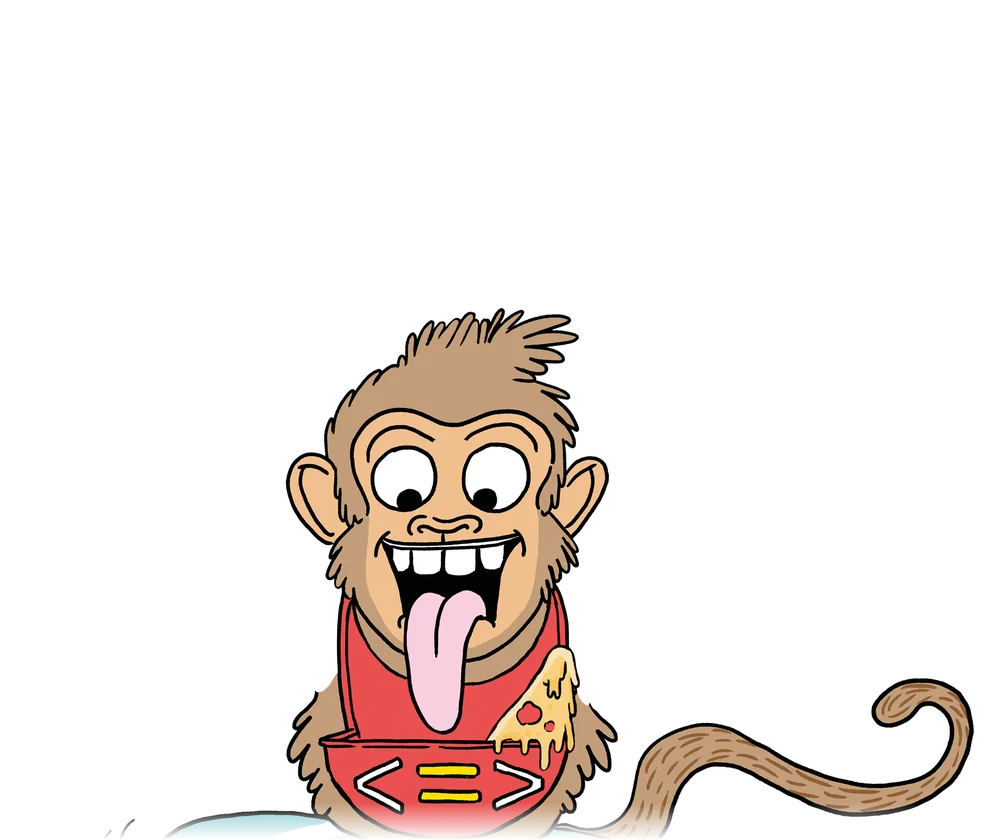
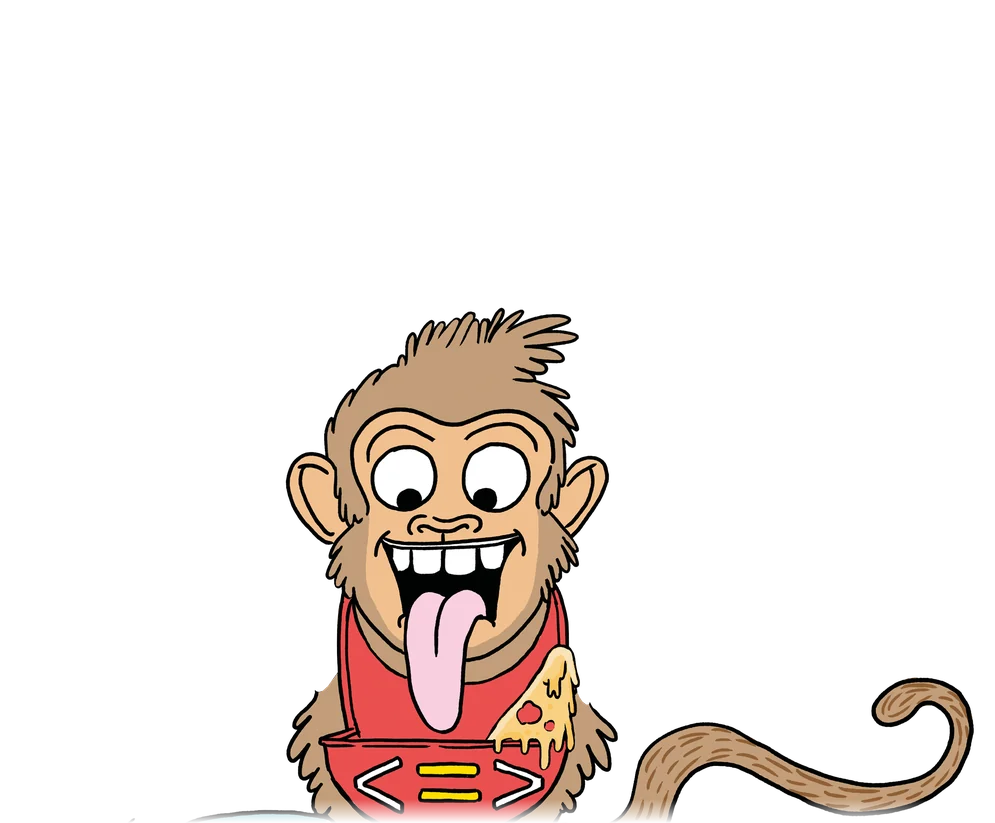
Apinavaaka: noppa suoraan edestä ja kirkkain tahko keskellä, ruokalappukorostus pois, uusi Vie linjastolle -nappi, väljempi asettelu
Claude-Session: https://claude.ai/code/session_01Jrb5sMZjYt7DdvpXLCZY5S

Changed region(s): [[0.1558, 0.3645, 0.997, 1.0]]

diff --git a/docs/apinavaaka/apinavaaka.css b/docs/apinavaaka/apinavaaka.css
@@ -1,12 +1,12 @@
 /* Apinavaaka-pikkupeli. Mahtuu yhdelle puhelimen ruudulle (~560 px korkea, 360 px leveä).
  * Värit tulevat sivuston tyyli.css:n muuttujista, oletukset tässä. */
 .av{position:relative;max-width:440px;margin:0 auto;background:var(--surface,#fff);border:1px solid var(--line,#E7DCCA);
-  border-radius:var(--radius,18px);padding:8px 10px 10px;box-shadow:var(--shadow,none);
+  border-radius:var(--radius,18px);padding:12px 14px 16px;box-shadow:var(--shadow,none);
   -webkit-user-select:none;user-select:none;-webkit-tap-highlight-color:transparent;font-family:Poppins,"Helvetica Neue",Arial,sans-serif}
 .av button{font:inherit;color:inherit}
 
 /* yläpalkki */
-.av__ylapalkki{display:grid;grid-template-columns:52px 1fr 80px;align-items:center;height:76px}
+.av__ylapalkki{display:grid;grid-template-columns:56px 1fr 84px;align-items:center;height:80px;margin-bottom:14px}
 .av__info{position:relative;width:48px;height:48px;border-radius:50%;border:0;padding:0;cursor:pointer;
   background:var(--warm,#FFF3E9);box-shadow:inset 0 0 0 2px var(--line,#E7DCCA)}
 .av__info img{position:absolute;inset:0;width:100%;height:100%;border-radius:50%;object-fit:cover}
@@ -58,32 +58,33 @@
 .av__luku{position:absolute;transform:translate(-50%,0);z-index:4;background:var(--surface,#fff);border-radius:999px;
   padding:1px 10px;font-weight:800;font-size:clamp(16px,5vw,20px);font-variant-numeric:tabular-nums;white-space:nowrap;
   box-shadow:0 1px 4px rgba(60,30,0,.25);transition:left .5s cubic-bezier(.3,1.5,.5,1),top .5s cubic-bezier(.3,1.5,.5,1)}
-.av__merkki{position:absolute;width:8%;aspect-ratio:1;transform:translate(-50%,-50%);border-radius:50%;z-index:2;
-  box-shadow:0 0 0 3px #fff,0 0 12px 6px rgba(255,255,255,.9);animation:av-merkki 1.2s ease-in-out infinite;pointer-events:none}
-.av__merkki--ok{box-shadow:0 0 0 3px #FFDF00,0 0 14px 8px rgba(255,223,0,.9)}
-@keyframes av-merkki{50%{transform:translate(-50%,-50%) scale(1.15)}}
-
 .av__juhla{position:absolute;left:50%;top:38%;transform:translate(-50%,-50%) scale(.3);opacity:0;z-index:6;
   background:var(--orange,#F47920);color:#1A1A1A;font-weight:800;font-size:clamp(22px,7vw,30px);padding:8px 18px;border-radius:16px;
   box-shadow:0 6px 20px rgba(60,30,0,.3);transition:transform .45s cubic-bezier(.3,1.8,.5,1),opacity .2s;pointer-events:none;white-space:nowrap}
 .av__juhla.on{opacity:1;transform:translate(-50%,-50%) scale(1) rotate(-4deg)}
 
 /* viestirivi */
-.av__rivi{height:48px;display:flex;align-items:center;justify-content:center;text-align:center;font-weight:700;font-size:16px;line-height:1.2;padding:0 6px}
-.av__rivi .nappi{border:0;cursor:pointer;font-weight:800;min-height:44px;animation:av-esiin .35s cubic-bezier(.3,1.6,.5,1)}
+.av__rivi{height:60px;margin:10px 0 14px;display:flex;align-items:center;justify-content:center;text-align:center;font-weight:700;font-size:16px;line-height:1.2;padding:0 6px}
+.av .av__vie{display:inline-flex;align-items:center;gap:10px;border:0;cursor:pointer;font-weight:700;font-size:18px;
+  padding:12px 26px;border-radius:999px;background:var(--green,#2D5D3D);color:#fff;box-shadow:0 4px 0 rgba(0,0,0,.18),0 8px 18px rgba(45,93,61,.3);
+  animation:av-esiin .35s cubic-bezier(.3,1.6,.5,1),av-kehota 1.6s ease-in-out .6s infinite}
+.av__vie span{font-size:20px;line-height:1}
+.av__vie:active{transform:translateY(2px);box-shadow:0 2px 0 rgba(0,0,0,.18)}
+.av__vie--varasto{background:var(--deep,#C2580C)}
+@keyframes av-kehota{50%{transform:translateY(3px)}}
 @keyframes av-esiin{from{transform:scale(.6);opacity:0}}
 .av__rivi--ok{color:var(--green,#2D5D3D);font-size:20px}
 .av__rivi--havikki{color:var(--deep,#C2580C)}
 
 /* varasto ja linjasto */
-.av__hyllyt{display:grid;gap:6px}
-.av__hylly{background:var(--warm,#FFF3E9);border-radius:12px;padding:4px 6px 3px}
+.av__hyllyt{display:grid;gap:10px}
+.av__hylly{background:var(--warm,#FFF3E9);border-radius:14px;padding:8px 8px 6px}
 .av__hylly--linjasto{background:var(--greenTint,#DCEBE0)}
 .av--havikki .av__hylly--linjasto{box-shadow:inset 0 0 0 2px var(--orange,#F47920)}
 .av__hylly-nimi{display:block;font-size:11px;font-weight:700;letter-spacing:.04em;text-transform:uppercase;color:var(--soft,#6E6357);margin:0 0 0 4px;line-height:1.4}
 .av__hylly-nimi b{color:var(--ink,#1A1A1A);margin-left:3px}
 .av__paikat{display:grid;grid-template-columns:repeat(10,1fr);gap:2px;align-items:end;--pala:4px}
-.av__paikka{display:flex;flex-direction:column;align-items:center;justify-content:flex-end;min-height:62px}
+.av__paikka{display:flex;flex-direction:column;align-items:center;justify-content:flex-end;min-height:66px}
 .av__paikka small{font-size:10.5px;font-weight:700;color:var(--soft,#6E6357);line-height:1.2}
 .av__paikka--tyhja::before{content:"";display:block;width:16px;height:4px;border-radius:3px;border:1px dashed var(--line2,#D6C7AF);margin-bottom:2px}
 .av__hylly-torni{display:flex;width:100%;justify-content:center;padding:3px 0 2px;border:0;background:none;cursor:pointer;border-radius:8px}

diff --git a/julkinen/apinavaaka/apinavaaka.css b/julkinen/apinavaaka/apinavaaka.css
@@ -1,12 +1,12 @@
 /* Apinavaaka-pikkupeli. Mahtuu yhdelle puhelimen ruudulle (~560 px korkea, 360 px leveä).
  * Värit tulevat sivuston tyyli.css:n muuttujista, oletukset tässä. */
 .av{position:relative;max-width:440px;margin:0 auto;background:var(--surface,#fff);border:1px solid var(--line,#E7DCCA);
-  border-radius:var(--radius,18px);padding:8px 10px 10px;box-shadow:var(--shadow,none);
+  border-radius:var(--radius,18px);padding:12px 14px 16px;box-shadow:var(--shadow,none);
   -webkit-user-select:none;user-select:none;-webkit-tap-highlight-color:transparent;font-family:Poppins,"Helvetica Neue",Arial,sans-serif}
 .av button{font:inherit;color:inherit}
 
 /* yläpalkki */
-.av__ylapalkki{display:grid;grid-template-columns:52px 1fr 80px;align-items:center;height:76px}
+.av__ylapalkki{display:grid;grid-template-columns:56px 1fr 84px;align-items:center;height:80px;margin-bottom:14px}
 .av__info{position:relative;width:48px;height:48px;border-radius:50%;border:0;padding:0;cursor:pointer;
   background:var(--warm,#FFF3E9);box-shadow:inset 0 0 0 2px var(--line,#E7DCCA)}
 .av__info img{position:absolute;inset:0;width:100%;height:100%;border-radius:50%;object-fit:cover}
@@ -58,32 +58,33 @@
 .av__luku{position:absolute;transform:translate(-50%,0);z-index:4;background:var(--surface,#fff);border-radius:999px;
   padding:1px 10px;font-weight:800;font-size:clamp(16px,5vw,20px);font-variant-numeric:tabular-nums;white-space:nowrap;
   box-shadow:0 1px 4px rgba(60,30,0,.25);transition:left .5s cubic-bezier(.3,1.5,.5,1),top .5s cubic-bezier(.3,1.5,.5,1)}
-.av__merkki{position:absolute;width:8%;aspect-ratio:1;transform:translate(-50%,-50%);border-radius:50%;z-index:2;
-  box-shadow:0 0 0 3px #fff,0 0 12px 6px rgba(255,255,255,.9);animation:av-merkki 1.2s ease-in-out infinite;pointer-events:none}
-.av__merkki--ok{box-shadow:0 0 0 3px #FFDF00,0 0 14px 8px rgba(255,223,0,.9)}
-@keyframes av-merkki{50%{transform:translate(-50%,-50%) scale(1.15)}}
-
 .av__juhla{position:absolute;left:50%;top:38%;transform:translate(-50%,-50%) scale(.3);opacity:0;z-index:6;
   background:var(--orange,#F47920);color:#1A1A1A;font-weight:800;font-size:clamp(22px,7vw,30px);padding:8px 18px;border-radius:16px;
   box-shadow:0 6px 20px rgba(60,30,0,.3);transition:transform .45s cubic-bezier(.3,1.8,.5,1),opacity .2s;pointer-events:none;white-space:nowrap}
 .av__juhla.on{opacity:1;transform:translate(-50%,-50%) scale(1) rotate(-4deg)}
 
 /* viestirivi */
-.av__rivi{height:48px;display:flex;align-items:center;justify-content:center;text-align:center;font-weight:700;font-size:16px;line-height:1.2;padding:0 6px}
-.av__rivi .nappi{border:0;cursor:pointer;font-weight:800;min-height:44px;animation:av-esiin .35s cubic-bezier(.3,1.6,.5,1)}
+.av__rivi{height:60px;margin:10px 0 14px;display:flex;align-items:center;justify-content:center;text-align:center;font-weight:700;font-size:16px;line-height:1.2;padding:0 6px}
+.av .av__vie{display:inline-flex;align-items:center;gap:10px;border:0;cursor:pointer;font-weight:700;font-size:18px;
+  padding:12px 26px;border-radius:999px;background:var(--green,#2D5D3D);color:#fff;box-shadow:0 4px 0 rgba(0,0,0,.18),0 8px 18px rgba(45,93,61,.3);
+  animation:av-esiin .35s cubic-bezier(.3,1.6,.5,1),av-kehota 1.6s ease-in-out .6s infinite}
+.av__vie span{font-size:20px;line-height:1}
+.av__vie:active{transform:translateY(2px);box-shadow:0 2px 0 rgba(0,0,0,.18)}
+.av__vie--varasto{background:var(--deep,#C2580C)}
+@keyframes av-kehota{50%{transform:translateY(3px)}}
 @keyframes av-esiin{from{transform:scale(.6);opacity:0}}
 .av__rivi--ok{color:var(--green,#2D5D3D);font-size:20px}
 .av__rivi--havikki{color:var(--deep,#C2580C)}
 
 /* varasto ja linjasto */
-.av__hyllyt{display:grid;gap:6px}
-.av__hylly{background:var(--warm,#FFF3E9);border-radius:12px;padding:4px 6px 3px}
+.av__hyllyt{display:grid;gap:10px}
+.av__hylly{background:var(--warm,#FFF3E9);border-radius:14px;padding:8px 8px 6px}
 .av__hylly--linjasto{background:var(--greenTint,#DCEBE0)}
 .av--havikki .av__hylly--linjasto{box-shadow:inset 0 0 0 2px var(--orange,#F47920)}
 .av__hylly-nimi{display:block;font-size:11px;font-weight:700;letter-spacing:.04em;text-transform:uppercase;color:var(--soft,#6E6357);margin:0 0 0 4px;line-height:1.4}
 .av__hylly-nimi b{color:var(--ink,#1A1A1A);margin-left:3px}
 .av__paikat{display:grid;grid-template-columns:repeat(10,1fr);gap:2px;align-items:end;--pala:4px}
-.av__paikka{display:flex;flex-direction:column;align-items:center;justify-content:flex-end;min-height:62px}
+.av__paikka{display:flex;flex-direction:column;align-items:center;justify-content:flex-end;min-height:66px}
 .av__paikka small{font-size:10.5px;font-weight:700;color:var(--soft,#6E6357);line-height:1.2}
 .av__paikka--tyhja::before{content:"";display:block;width:16px;height:4px;border-radius:3px;border:1px dashed var(--line2,#D6C7AF);margin-bottom:2px}
 .av__hylly-torni{display:flex;width:100%;justify-content:center;padding:3px 0 2px;border:0;background:none;cursor:pointer;border-radius:8px}

diff --git a/docs/apinavaaka/apinavaaka.js b/docs/apinavaaka/apinavaaka.js
@@ -18,9 +18,9 @@
 
   // ---------------------------------------------------------------- kuvan geometria
   // PSD:n pikseleitä; ylhäältä leikattu 250 px, alhaalta rajattu ruokalapun alle.
-  var W = 3210, H = 2470;
+  var W = 3210, H = 2422;
   var OSAT = {
-    vartalo: [255, 0, 2926, 2470],
+    vartalo: [255, 0, 2926, 2422],
     vasen:   [0, 1585, 1256, 564],
     oikea:   [1911, 1601, 1299, 513],
     saihkeet:[1162, 22, 1131, 681],
@@ -28,7 +28,6 @@
   };
   var NIVEL_V = [1240, 1790], NIVEL_O = [1925, 1775];   // olkapäät
   var SYMB_V = [508, 1655],  SYMB_O = [2700, 1668];     // symbaalien keskikohta
-  var RUOKALAPPU = { '<': [1362, 2318], '=': [1632, 2318], '>': [1902, 2318] };  // < = > ruokalapussa
   var MAKSIMIKULMA = 9;
 
   var VARIT = ['#090A0D', '#E62448', '#FFDF00', '#1072B9', '#EF7925',
@@ -181,8 +180,6 @@
     nayttamo.appendChild(kasiV); nayttamo.appendChild(kasiO);
     nayttamo.appendChild(kuva('vartalo'));
     nayttamo.appendChild(kuva('saihkeet')); nayttamo.appendChild(kuva('lamppu', 'lamppu-pois')); nayttamo.appendChild(lamppuPaalla);
-    var merkki = el('span', 'av__merkki');          // korostus ruokalapun < = > -merkin päällä
-    nayttamo.appendChild(merkki);
     var pinoV = el('div', 'av__pino'), pinoO = el('div', 'av__pino');
     var lukuV = el('span', 'av__luku'), lukuO = el('span', 'av__luku');
     [pinoV, pinoO, lukuV, lukuO].forEach(function (x) { nayttamo.appendChild(x); });
@@ -371,19 +368,13 @@
       lukuV.textContent = nayta ? [noppa].concat(tila.vasen).join(' + ') : '';
       lukuO.textContent = nayta && tila.oikea.length ? tila.oikea.join(' + ') : '';
       lukuV.hidden = !lukuV.textContent; lukuO.hidden = !lukuO.textContent;
-      var m = !nayta || !tila.oikea.length ? '' : vasenSumma === oikeaSumma ? '=' : vasenSumma < oikeaSumma ? '<' : '>';
-      merkki.hidden = !m;
-      if (m) {
-        merkki.style.left = pros(RUOKALAPPU[m][0], W); merkki.style.top = pros(RUOKALAPPU[m][1], H);
-        merkki.classList.toggle('av__merkki--ok', m === '=');
-      }
       juuri.classList.toggle('av--valo', tila.valmis || tila.siirretty);
 
       // viestirivi: joko lyhyt teksti tai yksi nappi
       rivi.innerHTML = '';
       rivi.className = 'av__rivi';
       if (tila.valmis) {
-        nappi(rivi, (tila.havikki ? t.vieV : t.vie) + ' →', '', vieSiirto);
+        nappi(rivi, (tila.havikki ? t.vieV : t.vie) + ' <span aria-hidden="true">↓</span>', 'av__vie' + (tila.havikki ? ' av__vie--varasto' : ''), vieSiirto);
       } else if (tila.siirretty) {
         rivi.textContent = t.hyva; rivi.classList.add('av__rivi--ok');
       } else if (!heitetty) {

diff --git a/julkinen/apinavaaka/apinavaaka.js b/julkinen/apinavaaka/apinavaaka.js
@@ -18,9 +18,9 @@
 
   // ---------------------------------------------------------------- kuvan geometria
   // PSD:n pikseleitä; ylhäältä leikattu 250 px, alhaalta rajattu ruokalapun alle.
-  var W = 3210, H = 2470;
+  var W = 3210, H = 2422;
   var OSAT = {
-    vartalo: [255, 0, 2926, 2470],
+    vartalo: [255, 0, 2926, 2422],
     vasen:   [0, 1585, 1256, 564],
     oikea:   [1911, 1601, 1299, 513],
     saihkeet:[1162, 22, 1131, 681],
@@ -28,7 +28,6 @@
   };
   var NIVEL_V = [1240, 1790], NIVEL_O = [1925, 1775];   // olkapäät
   var SYMB_V = [508, 1655],  SYMB_O = [2700, 1668];     // symbaalien keskikohta
-  var RUOKALAPPU = { '<': [1362, 2318], '=': [1632, 2318], '>': [1902, 2318] };  // < = > ruokalapussa
   var MAKSIMIKULMA = 9;
 
   var VARIT = ['#090A0D', '#E62448', '#FFDF00', '#1072B9', '#EF7925',
@@ -181,8 +180,6 @@
     nayttamo.appendChild(kasiV); nayttamo.appendChild(kasiO);
     nayttamo.appendChild(kuva('vartalo'));
     nayttamo.appendChild(kuva('saihkeet')); nayttamo.appendChild(kuva('lamppu', 'lamppu-pois')); nayttamo.appendChild(lamppuPaalla);
-    var merkki = el('span', 'av__merkki');          // korostus ruokalapun < = > -merkin päällä
-    nayttamo.appendChild(merkki);
     var pinoV = el('div', 'av__pino'), pinoO = el('div', 'av__pino');
     var lukuV = el('span', 'av__luku'), lukuO = el('span', 'av__luku');
     [pinoV, pinoO, lukuV, lukuO].forEach(function (x) { nayttamo.appendChild(x); });
@@ -371,19 +368,13 @@
       lukuV.textContent = nayta ? [noppa].concat(tila.vasen).join(' + ') : '';
       lukuO.textContent = nayta && tila.oikea.length ? tila.oikea.join(' + ') : '';
       lukuV.hidden = !lukuV.textContent; lukuO.hidden = !lukuO.textContent;
-      var m = !nayta || !tila.oikea.length ? '' : vasenSumma === oikeaSumma ? '=' : vasenSumma < oikeaSumma ? '<' : '>';
-      merkki.hidden = !m;
-      if (m) {
-        merkki.style.left = pros(RUOKALAPPU[m][0], W); merkki.style.top = pros(RUOKALAPPU[m][1], H);
-        merkki.classList.toggle('av__merkki--ok', m === '=');
-      }
       juuri.classList.toggle('av--valo', tila.valmis || tila.siirretty);
 
       // viestirivi: joko lyhyt teksti tai yksi nappi
       rivi.innerHTML = '';
       rivi.className = 'av__rivi';
       if (tila.valmis) {
-        nappi(rivi, (tila.havikki ? t.vieV : t.vie) + ' →', '', vieSiirto);
+        nappi(rivi, (tila.havikki ? t.vieV : t.vie) + ' <span aria-hidden="true">↓</span>', 'av__vie' + (tila.havikki ? ' av__vie--varasto' : ''), vieSiirto);
       } else if (tila.siirretty) {
         rivi.textContent = t.hyva; rivi.classList.add('av__rivi--ok');
       } else if (!heitetty) {

diff --git a/docs/apinavaaka/noppa3d.js b/docs/apinavaaka/noppa3d.js
@@ -70,7 +70,7 @@ window.Noppa3D = function (juuri, kansio) {
   varjo.className = 'n3d__varjo';
   juuri.insertBefore(varjo, kappale);
 
-  var VALO = norm([-0.4, -0.7, 0.9]);
+  var VALO = norm([0, -0.375, 0.927]);   // valo edestä: lopputulostahko on kirkkain
 
   tahkot.forEach(function (f) {
     var keski = mul(add(add(f.karki, f.pohja), add(f.a, f.b)), 0.25);
@@ -112,7 +112,7 @@ window.Noppa3D = function (juuri, kansio) {
     var Rm = [[0, 0, 0], [0, 0, 0], [0, 0, 0]];
     for (var i = 0; i < 3; i++) for (var r = 0; r < 3; r++) for (var c = 0; c < 3; c++) Rm[r][c] += T[i][r] * Sr[i][c];
     // pieni kallistus, jotta naapuritahkot näkyvät ja noppa näyttää kappaleelta
-    return mm(mm(kierto([1, 0, 0], -4 * rad), kierto([0, 1, 0], 10 * rad)), Rm);
+    return mm(mm(kierto([1, 0, 0], 22 * rad), kierto([0, 1, 0], 0 * rad)), Rm);
   }
 
   var M = asento(1), anim = null;
@@ -124,7 +124,7 @@ window.Noppa3D = function (juuri, kansio) {
     tahkot.forEach(function (f) {
       var nn = mv(Mx, f.n);
       var v = Math.max(0, dot(nn, VALO));
-      f.img.style.filter = 'brightness(' + (0.55 + 0.55 * v).toFixed(3) + ')';
+      f.img.style.filter = 'brightness(' + (0.52 + 0.5 * Math.pow(v, 1.5)).toFixed(3) + ')';
     });
   }
   function seis() { if (anim) cancelAnimationFrame(anim); anim = null; }

diff --git a/julkinen/apinavaaka/noppa3d.js b/julkinen/apinavaaka/noppa3d.js
@@ -70,7 +70,7 @@ window.Noppa3D = function (juuri, kansio) {
   varjo.className = 'n3d__varjo';
   juuri.insertBefore(varjo, kappale);
 
-  var VALO = norm([-0.4, -0.7, 0.9]);
+  var VALO = norm([0, -0.375, 0.927]);   // valo edestä: lopputulostahko on kirkkain
 
   tahkot.forEach(function (f) {
     var keski = mul(add(add(f.karki, f.pohja), add(f.a, f.b)), 0.25);
@@ -112,7 +112,7 @@ window.Noppa3D = function (juuri, kansio) {
     var Rm = [[0, 0, 0], [0, 0, 0], [0, 0, 0]];
     for (var i = 0; i < 3; i++) for (var r = 0; r < 3; r++) for (var c = 0; c < 3; c++) Rm[r][c] += T[i][r] * Sr[i][c];
     // pieni kallistus, jotta naapuritahkot näkyvät ja noppa näyttää kappaleelta
-    return mm(mm(kierto([1, 0, 0], -4 * rad), kierto([0, 1, 0], 10 * rad)), Rm);
+    return mm(mm(kierto([1, 0, 0], 22 * rad), kierto([0, 1, 0], 0 * rad)), Rm);
   }
 
   var M = asento(1), anim = null;
@@ -124,7 +124,7 @@ window.Noppa3D = function (juuri, kansio) {
     tahkot.forEach(function (f) {
       var nn = mv(Mx, f.n);
       var v = Math.max(0, dot(nn, VALO));
-      f.img.style.filter = 'brightness(' + (0.55 + 0.55 * v).toFixed(3) + ')';
+      f.img.style.filter = 'brightness(' + (0.52 + 0.5 * Math.pow(v, 1.5)).toFixed(3) + ')';
     });
   }
   function seis() { if (anim) cancelAnimationFrame(anim); anim = null; }
